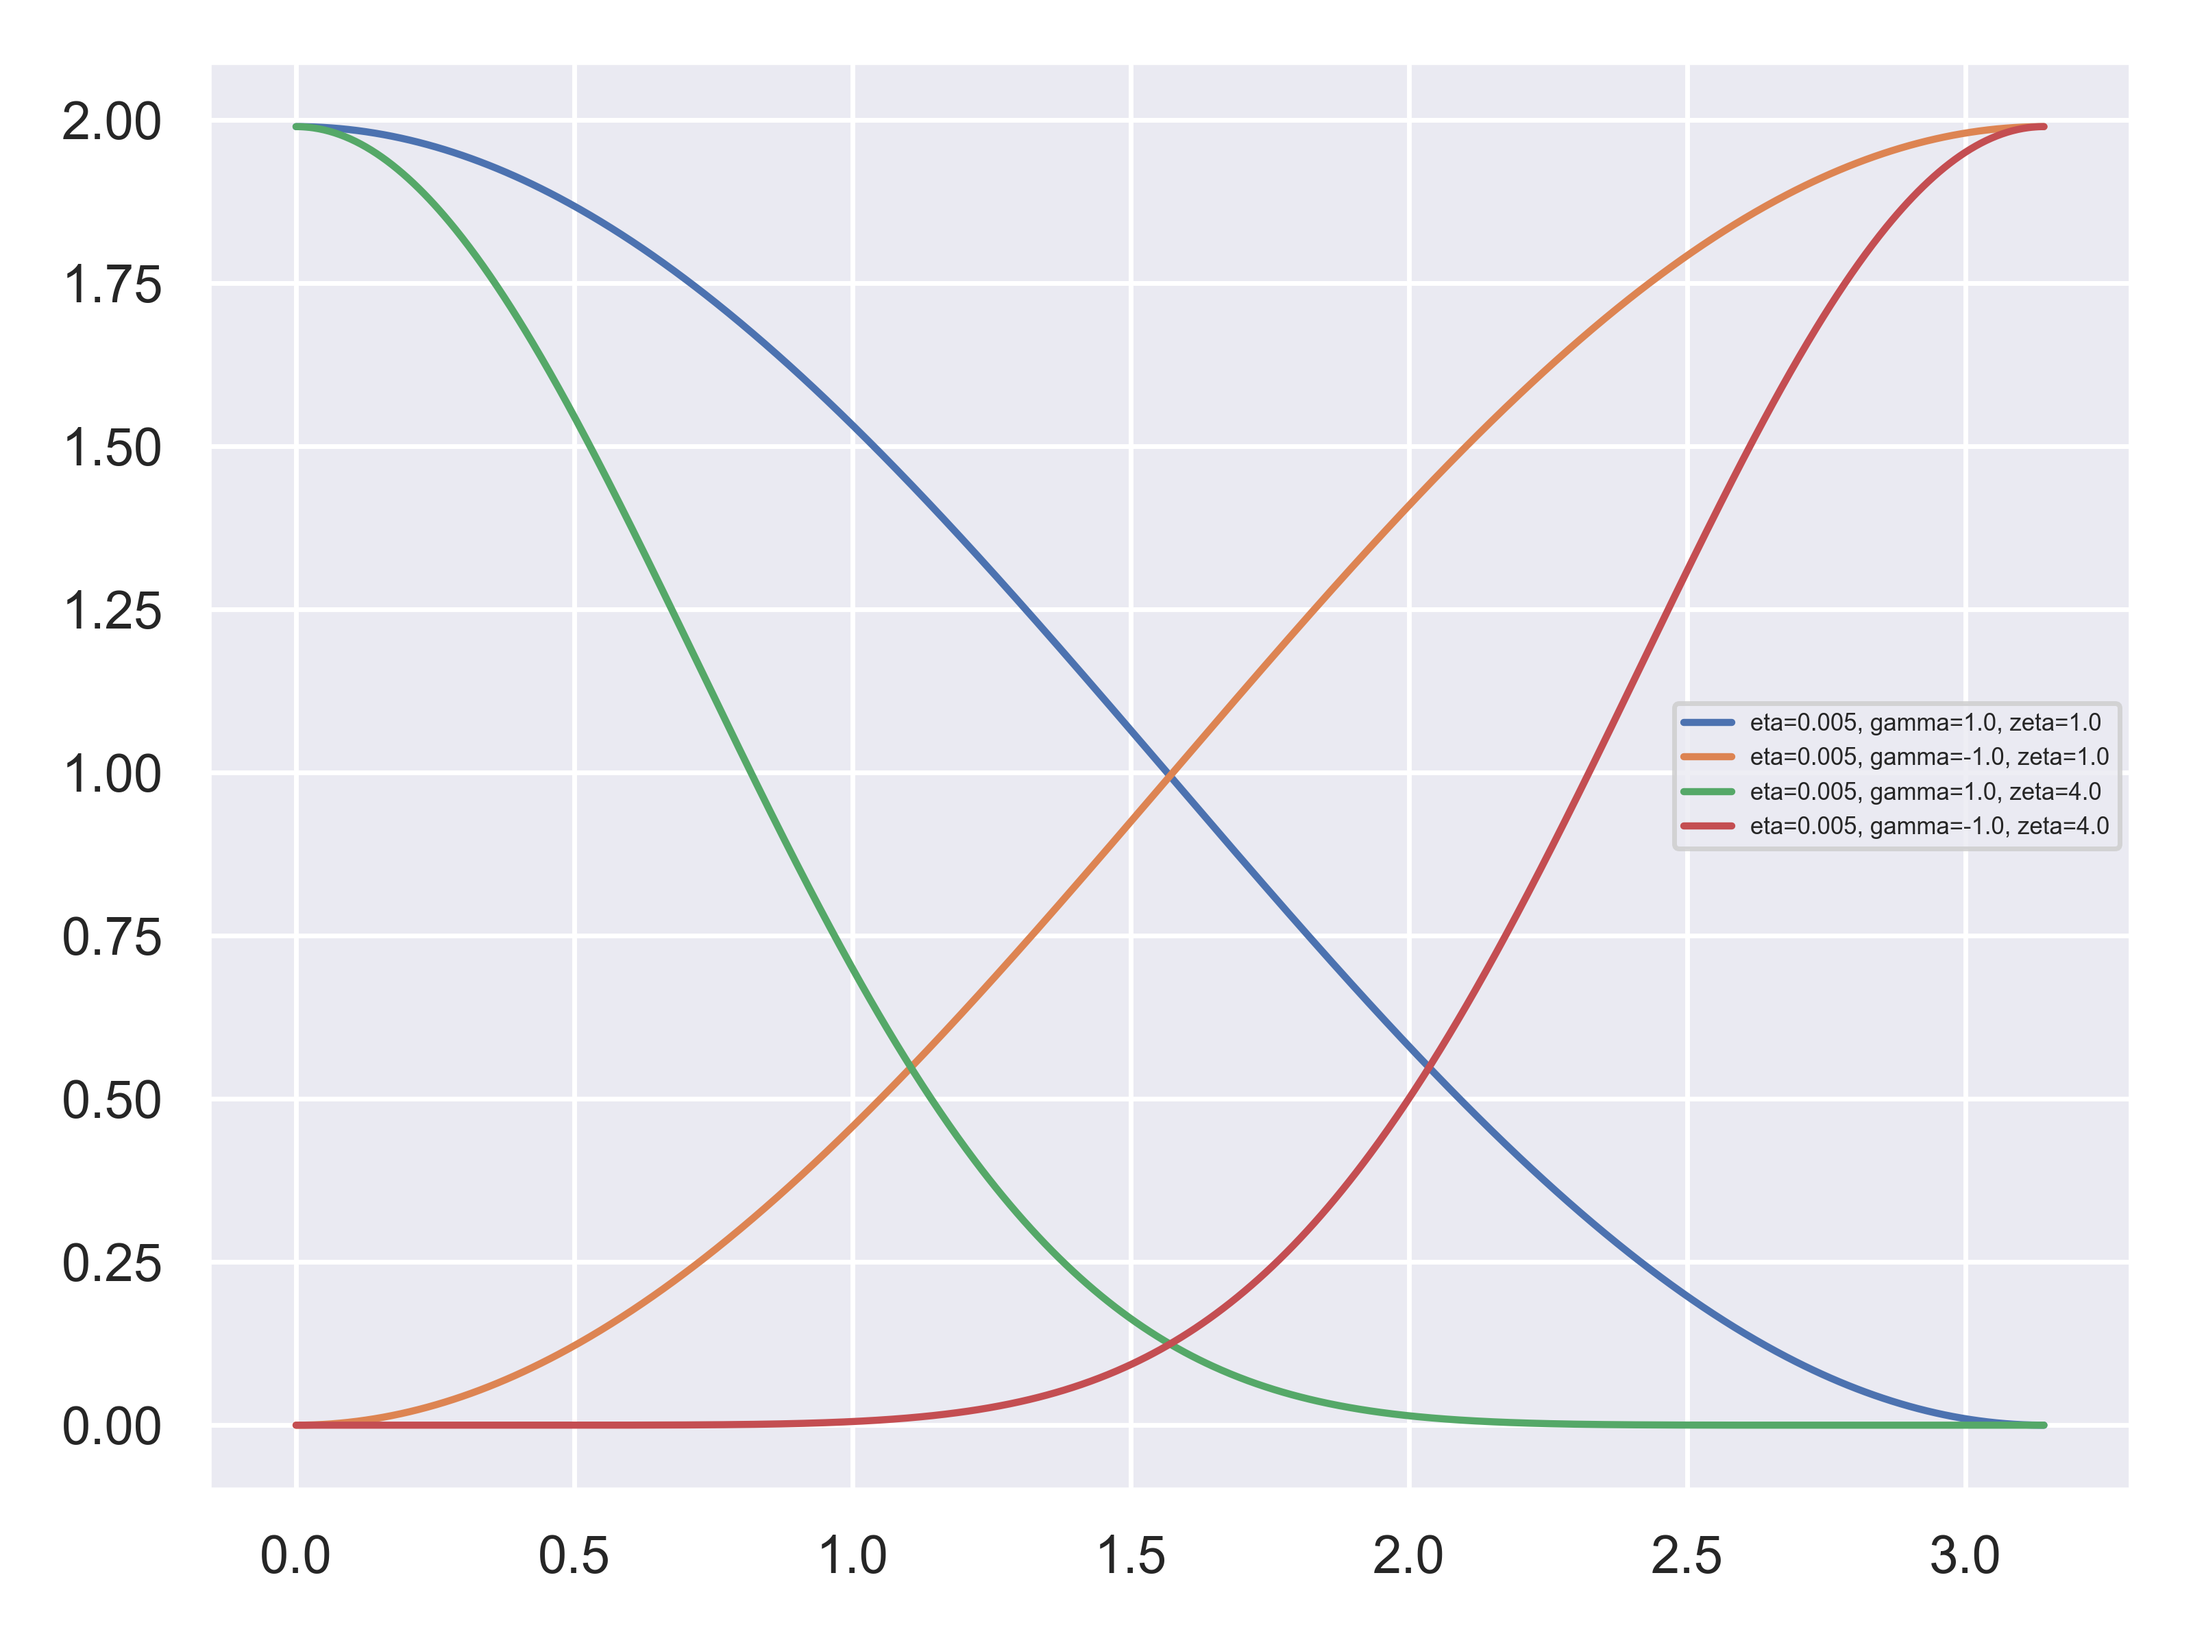
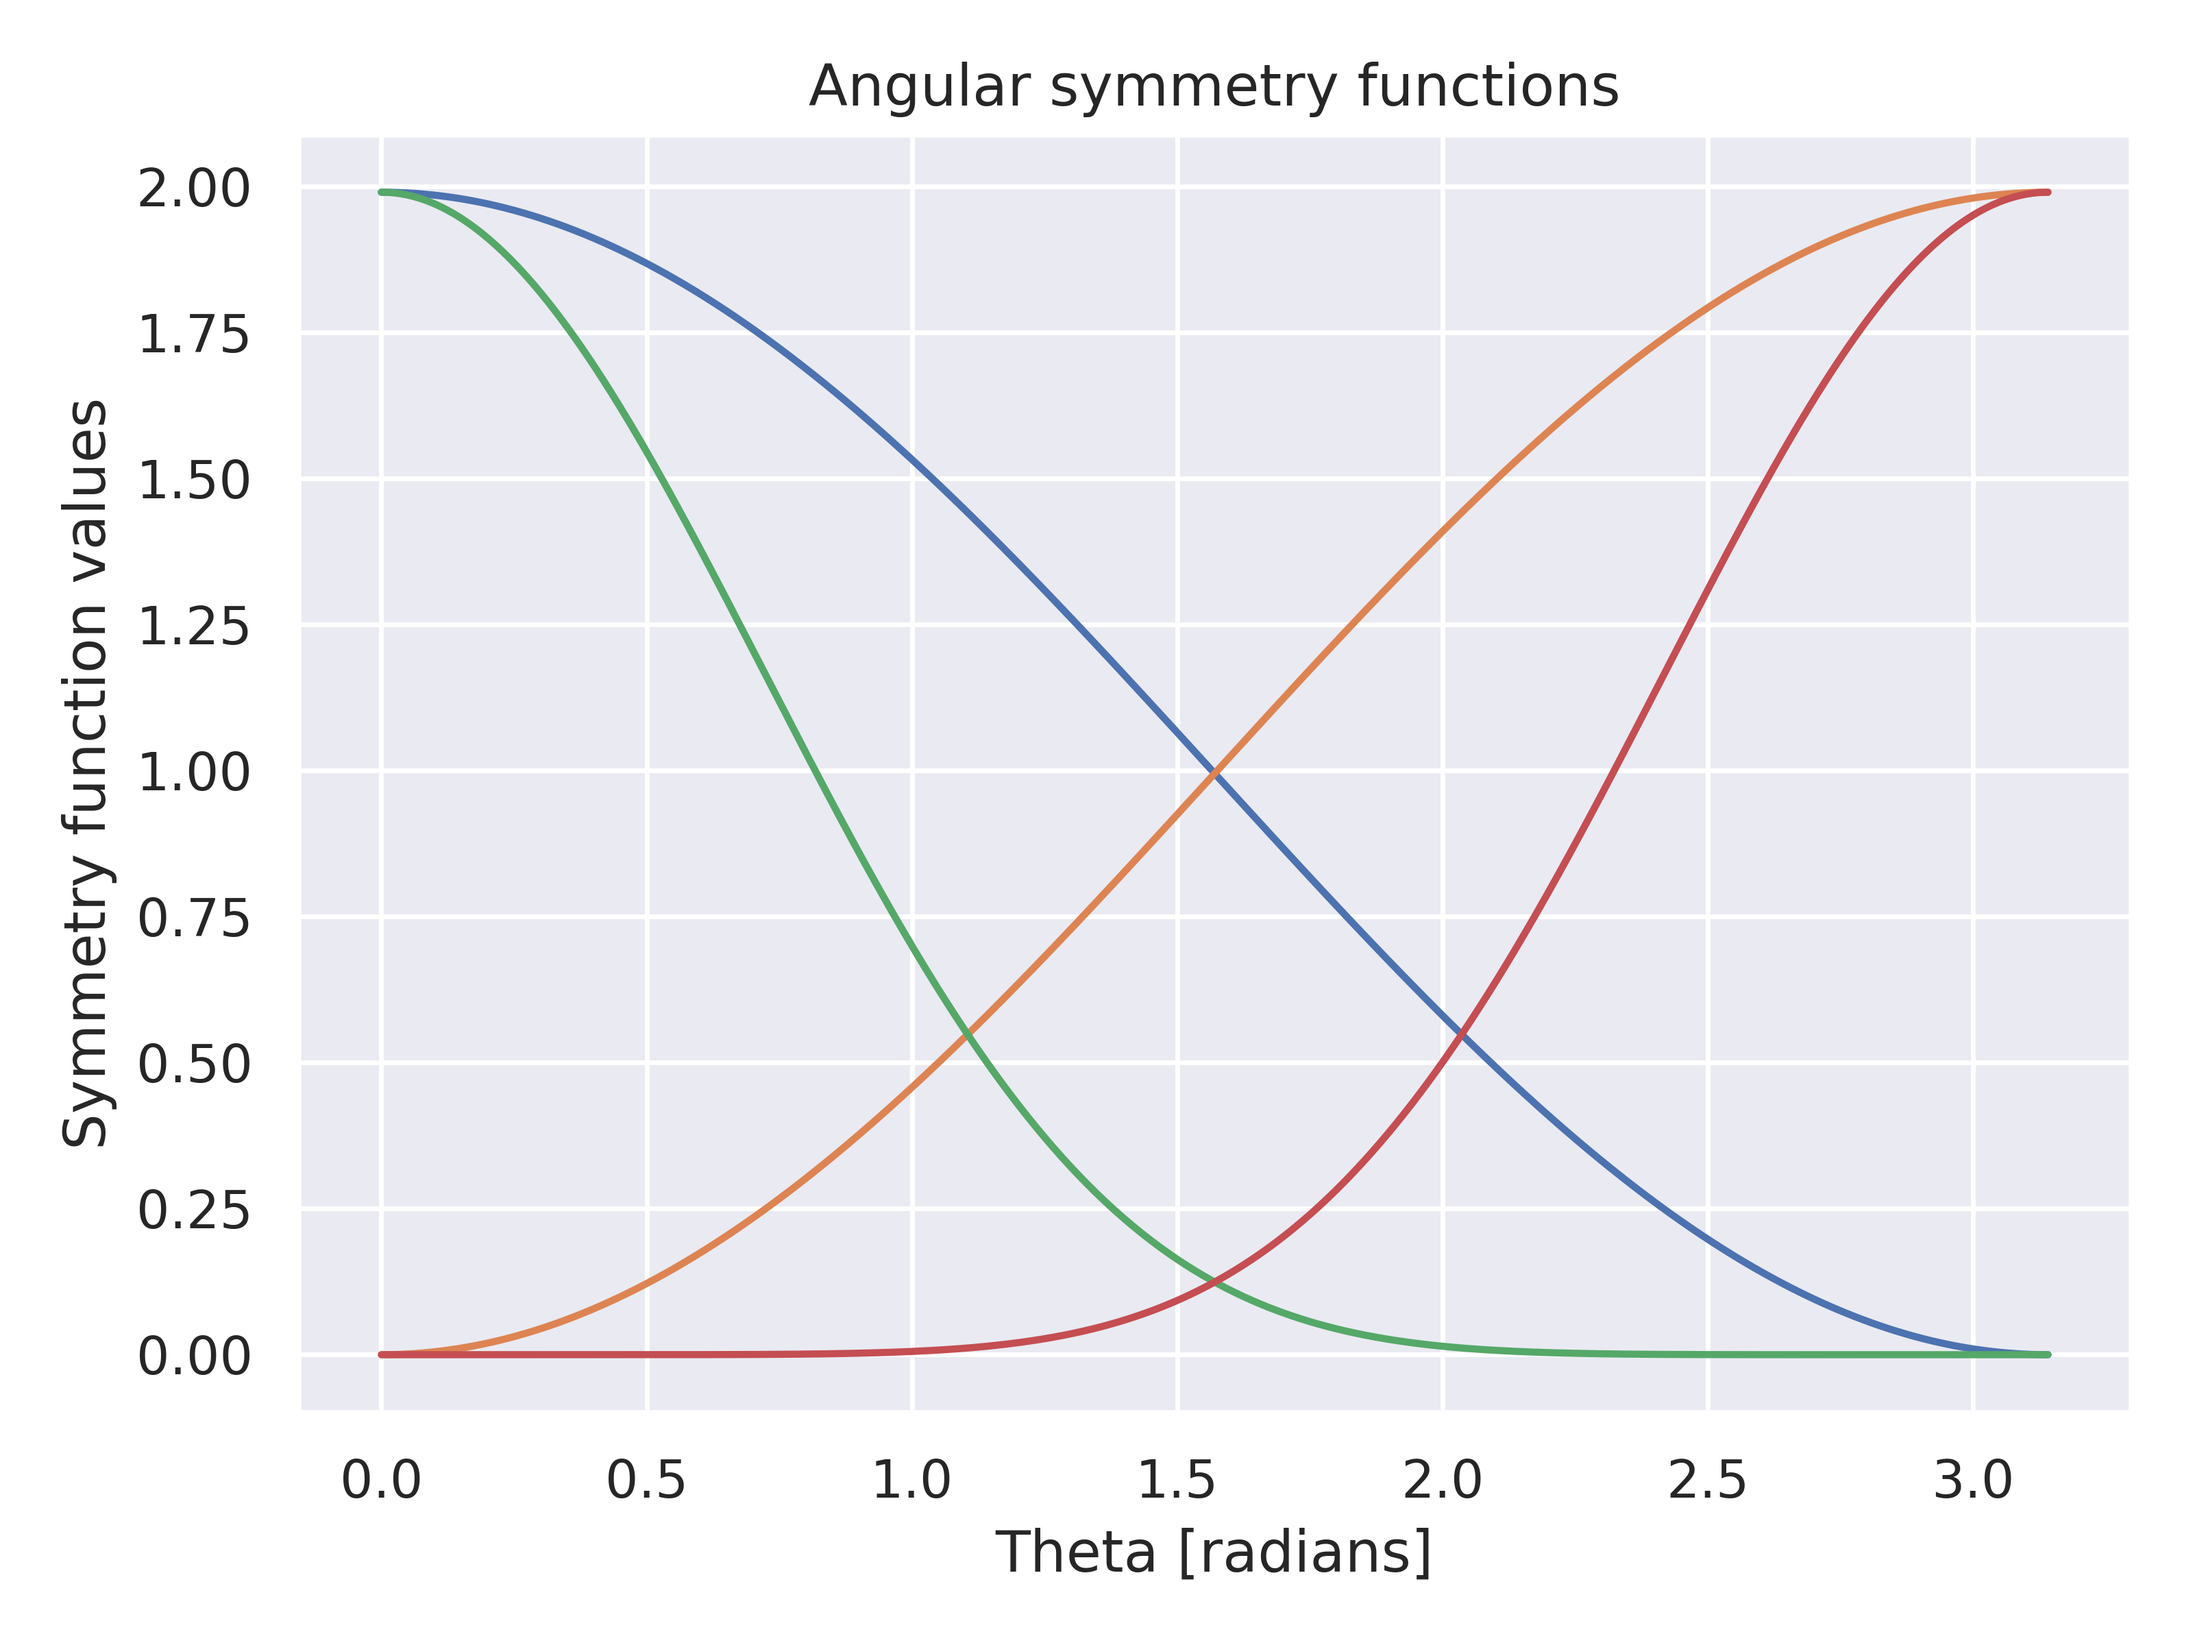
Close...

diff --git a/tensorflow/lennard_jones.py b/tensorflow/lennard_jones.py
@@ -1,3 +1,4 @@
+import os
 import numpy as np
 import matplotlib.pyplot as plt
 import seaborn as sns
@@ -41,7 +42,9 @@ def lennard_jones_data():
 
 
 def plot_network_and_derivative(x_test, y_test, model):
-    sns.set()
+    plot_dir = "plots"
+    if not os.path.exists(plot_dir):
+        os.mkdir(plot_dir)
     lj_derivative = lambda r: -24 * (2 * r ** (-13) - r ** (-7))
 
     x_plot = x_test.copy()
@@ -68,14 +71,14 @@ def plot_network_and_derivative(x_test, y_test, model):
     plt.xlabel("Radial distance r")
     plt.ylabel("Potential energy V(r)")
     plt.legend(["Lennard-Jones", "Neural Network"])
-    plt.savefig("potential_comparison.png")
+    plt.savefig(os.path.join(plot_dir, "potential_comparison.png"))
     plt.clf()
 
     plt.plot(x_plot, abs(y_model - y_plot))
     plt.title("Absolute error of neural network")
     plt.xlabel("Radial distance r")
     plt.ylabel("Absolute error")
-    plt.savefig("potential_absolute_error.png")
+    plt.savefig(os.path.join(plot_dir, "potential_absolute_error.png"))
     plt.clf()
 
     plt.plot(x_plot, dy_plot)
@@ -84,14 +87,14 @@ def plot_network_and_derivative(x_test, y_test, model):
     plt.xlabel("Radial distance r")
     plt.ylabel("Force dV(r)")
     plt.legend(["Lennard-Jones", "Neural Network"])
-    plt.savefig("force_comparison.png")
+    plt.savefig(os.path.join(plot_dir, "force_comparison.png"))
     plt.clf()
 
     plt.plot(x_plot, abs(dy_model - dy_plot))
     plt.title("Absolute error of neural network force")
     plt.xlabel("Radial distance r")
     plt.ylabel("Absolute error")
-    plt.savefig("force_absolute_error.png")
+    plt.savefig(os.path.join(plot_dir, "force_absolute_error.png"))
     plt.clf()
 
     energy_rmse = np.sqrt(np.sum((y_model - y_plot) ** 2))
@@ -146,4 +149,5 @@ for epoch in range(epochs):
     template = "Epoch {}, Loss: {}, Test Loss: {}"
     print(template.format(epoch + 1, train_loss.result(), test_loss.result()))
 
+sns.set()
 plot_network_and_derivative(x_test, y_test, model)

diff --git a/cutoffs/cutoff_plot.py b/cutoffs/cutoff_plot.py
@@ -1,0 +1,34 @@
+import os
+import sys
+import numpy as np
+import matplotlib.pyplot as plt
+import seaborn as sns
+
+sys.path.insert(1, "../tools")
+
+from analysis import Analyzer
+from plotting import Plotter
+from training import Trainer
+
+
+if __name__ == "__main__":
+    sns.set()
+    plot_dir = "plots"
+    plot_file = os.path.join(plot_dir, "rdf.png")
+    if not os.path.exists(plot_dir):
+        os.mkdir(plot_dir)
+
+    anl = Analyzer()
+    plter = Plotter()
+    r_cut = 6.0
+    r, rdf = anl.calculate_rdf("trajs/training.traj", r_max=r_cut)
+    rdf[np.nonzero(rdf)] /= max(rdf)
+    cutoff = plter.polynomial(r, r_cut, gamma=5.0)
+
+    plt.plot(r, rdf, label="Radial distribution function")
+    plt.plot(r, cutoff, label="Polynomial cutoff, gamma=5.0")
+    plt.legend()
+    plt.title("Copper radial distribution function")
+    plt.xlabel("Radial distance [Angstrom]")
+    plt.ylabel("Radial distribution function (normalized to 1)")
+    plt.savefig(plot_file) 

diff --git a/tools/plotting.py b/tools/plotting.py
@@ -196,11 +196,15 @@ class Plotter:
 
         plt.rc("legend", fontsize=5)
         plt.figure(1)
-        plt.legend()
+        plt.title("Radial symmetry functions")
+        plt.xlabel("$R / R_c$")
+        plt.ylabel("Symmetry function values")
         plt.savefig(rad_plot_file, dpi=500)
         plt.clf()
         plt.figure(2)
-        plt.legend()
+        plt.title("Angular symmetry functions")
+        plt.xlabel("Theta [radians]")
+        plt.ylabel("Symmetry function values")
         plt.savefig(ang_plot_file, dpi=500)
         plt.clf()
 

diff --git a/activation-layers/main.py b/activation-layers/main.py
@@ -24,7 +24,7 @@ if __name__ == "__main__":
     convergence = {"energy_rmse": 1e-16, "force_rmse": None, "max_steps": max_steps}
     force_coefficient = None
     cutoff = Polynomial(6.0, gamma=5.0)
-    num_radial_etas = 8
+    num_radial_etas = 6
     num_angular_etas = 10
     num_zetas = 1
     angular_type = "G4"

diff --git a/scaling/main.py b/scaling/main.py
@@ -21,7 +21,7 @@ if __name__ == "__main__":
     convergence = {"energy_rmse": 1e-16, "force_rmse": None, "max_steps": max_steps}
     force_coefficient = None
     cutoff = Polynomial(6.0, gamma=5.0)
-    num_radial_etas = 8
+    num_radial_etas = 6
     num_angular_etas = 10
     num_zetas = 1
     angular_type = "G4"

diff --git a/symmetry-functions/main.py b/symmetry-functions/main.py
@@ -42,7 +42,7 @@ if __name__ == "__main__":
     )
 
     num_radial_etas = [4, 5, 6, 7, 8, 9, 10, 10]
-    num_angular_etas = [n + 2 for n in num_radial_etas]
+    num_angular_etas = [n + 4 for n in num_radial_etas]
     num_zetas = [1, 1, 1, 1, 1, 1, 1, 2]
     gammas = [1.0, -1.0]
     symm_funcs = {"Default": None}

diff --git a/overfit/main.py b/overfit/main.py
@@ -49,7 +49,7 @@ if __name__ == "__main__":
     overfits = [10**(-i) for i in range(10)]
     dblabel = "amp-train"
     calcs = {}
-    for of in overfit:
+    for of in overfits:
         trn.overfit = of
         label = "o{:.2e}".format(of)
         calc = trn.create_calc(label=label, dblabel=dblabel)

diff --git a/cutoffs/main.py b/cutoffs/main.py
@@ -23,7 +23,7 @@ if __name__ == "__main__":
     max_steps = int(2e3)
     convergence = {"energy_rmse": 1e-16, "force_rmse": None, "max_steps": max_steps}
     force_coefficient = None
-    num_radial_etas = 8
+    num_radial_etas = 6
     num_angular_etas = 10
     num_zetas = 1
     angular_type = "G4"

diff --git a/emt-copper/main.py b/emt-copper/main.py
@@ -19,7 +19,7 @@ if __name__ == "__main__":
     size = (2, 2, 2)
     temp = 1000
     n_train = int(8e5)
-    n_train_force = int(2e5)
+    n_train_force = int(1e5)
     save_interval = 100
     train_traj = "training.traj"
     train_force_traj = "training_force.traj"

diff --git a/tools/training.py b/tools/training.py
@@ -16,7 +16,7 @@ class Trainer:
         convergence=None,
         energy_coefficient=1.0,
         force_coefficient=None,
-        overfit=1e-3,
+        overfit=1e-8,
         hidden_layers=(10, 10),
         activation="tanh",
         cutoff=Cosine(6.0),

diff --git a/stillinger-weber/main.py b/stillinger-weber/main.py
@@ -19,7 +19,7 @@ if __name__ == "__main__":
     size = (2, 2, 2)
     temp = 1000
     n_train = int(8e5)
-    n_train_force = int(2e5)
+    n_train_force = int(1e5)
     save_interval = 100
     timestep = 5.0
     train_traj = "training.traj"

diff --git a/force-training/main.py b/force-training/main.py
@@ -24,7 +24,7 @@ if __name__ == "__main__":
 
     max_steps = int(2e3)
     cutoff = Polynomial(6.0, gamma=5.0)
-    num_radial_etas = 8
+    num_radial_etas = 6
     num_angular_etas = 10
     num_zetas = 1
     angular_type = "G4"
